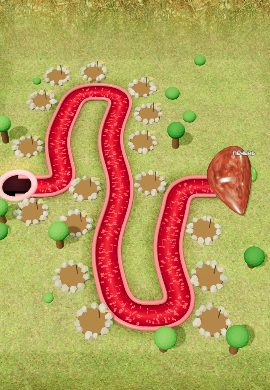
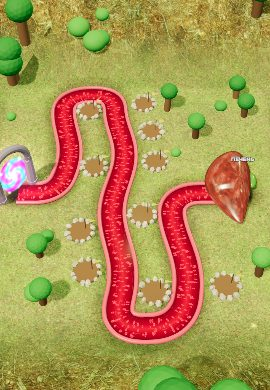
Стоячий светящийся портал, сосуд уходит под орган, площадки внутри петель и не заходят на сосуд

diff --git a/index.html b/index.html
@@ -343,7 +343,7 @@ body {
       </div>
       <button class="btn big" data-look="menu">Фон и звуки</button>
       <button class="btn" data-go="howto">Как играть</button>
-      <p class="ver">Версия 0.8 · прототип</p>
+      <p class="ver">Версия 0.9 · прототип</p>
     </div>
   </div>
 
@@ -1172,15 +1172,17 @@ function makeLayout(aspect) {
   const rows = aspect < .9 ? 13 : aspect < 1.4 ? 11 : 9, gap = portrait ? 2 : 3;
   const width = Math.round(rows * aspect * .92 - 2.6);
   const runs = Math.max(2, Math.floor((width - 2) / gap) + 1);
-  const mid = Math.floor(rows / 2), wp = [[-0.45, mid]];
+  const mid = Math.floor(rows / 2), wp = [[-0.45, mid]], R = [];
   let y = mid;
   for (let k = 0; k < runs; k++) {
     const c = 1 + k * gap, to = k === runs - 1 ? mid : (k % 2 === 0 ? 1 : rows - 2);
-    wp.push([c, y], [c, to]); y = to;
+    wp.push([c, y], [c, to]); R.push({ c, z0: y, z1: to }); y = to;
   }
   const last = 1 + (runs - 1) * gap;
-  wp.push([last + 1.6, mid]);
-  return { rows, cols: last + 2, wp, portrait };
+  wp.push([last + 2.3, mid]);   // конец сосуда спрятан внутри органа
+  // петли: между соседними участками, «залив» открыт в сторону начала участка
+  const turns = R.slice(0, -1).map((r, k) => ({ x: r.c + gap / 2, z: r.z1, dir: Math.sign(r.z0 - r.z1) || 1, a: r, b: R[k + 1] }));
+  return { rows, cols: last + 2, wp, portrait, runs: R, turns, gap, mid };
 }
 
 function pathAt(d, v = new T.Vector3()) {
@@ -1208,12 +1210,32 @@ const bloodTex = canvasTex(128, 512, (g, W, H) => {
 bloodTex.wrapS = bloodTex.wrapT = T.RepeatWrapping;
 const portal = new T.Group();
 {
-  const hole = new T.Mesh(new T.CircleGeometry(.62, 40), new T.MeshBasicMaterial({ color: '#050102' }));
-  hole.rotation.x = -Math.PI / 2; hole.position.y = .03; portal.add(hole);
-  const ring = new T.Mesh(new T.TorusGeometry(.62, .11, 12, 40), new T.MeshStandardMaterial({ color: '#ff8ea0', roughness: .3, emissive: '#7a1426', emissiveIntensity: .7 }));
-  ring.rotation.x = -Math.PI / 2; ring.position.y = .06; portal.add(ring);
-  const glow = new T.Sprite(new T.SpriteMaterial({ map: glowTex, color: '#ff3d55', blending: T.AdditiveBlending, depthWrite: false, opacity: .55 }));
-  glow.scale.set(2.2, 2.2, 1); glow.position.y = .2; portal.add(glow); portal.userData.glow = glow;
+  // Ворота из камня с аркой, внутри — светящаяся закрученная мембрана; микробы выходят из неё
+  const stone = new T.MeshStandardMaterial({ color: '#8a7a8a', roughness: .7, flatShading: true });
+  const trim = new T.MeshStandardMaterial({ color: '#c8a0ff', emissive: '#8a4aff', emissiveIntensity: .9, roughness: .3 });
+  const pill = (z) => { const m = new T.Mesh(new T.CylinderGeometry(.11, .14, 1.05, 8), stone); m.position.set(0, .52, z); m.castShadow = true; portal.add(m);
+    const cap = new T.Mesh(new T.CylinderGeometry(.16, .16, .08, 8), stone); cap.position.set(0, .06, z); portal.add(cap); };
+  pill(-.52); pill(.52);
+  const arch = new T.Mesh(new T.TorusGeometry(.52, .1, 10, 32, Math.PI), stone); arch.rotation.y = Math.PI / 2; arch.position.y = 1.05; arch.castShadow = true; portal.add(arch);
+  const band = new T.Mesh(new T.TorusGeometry(.43, .025, 8, 40, Math.PI), trim); band.rotation.y = Math.PI / 2; band.position.y = 1.05; portal.add(band);
+  for (const z of [-.43, .43]) { const b = new T.Mesh(new T.CylinderGeometry(.025, .025, .98, 6), trim); b.position.set(0, .56, z); portal.add(b); }
+  const mat = new T.ShaderMaterial({
+    uniforms: { t: { value: 0 }, c1: { value: new T.Color('#ff4ad8') }, c2: { value: new T.Color('#5ad8ff') } },
+    vertexShader: 'varying vec2 vU; void main(){ vU = uv; gl_Position = projectionMatrix * modelViewMatrix * vec4(position,1.); }',
+    fragmentShader: `uniform float t; uniform vec3 c1; uniform vec3 c2; varying vec2 vU;
+      void main(){ vec2 p = (vU - .5) * 2.; float r = length(p); float a = atan(p.y, p.x);
+        float sw = sin(a * 3. + r * 9. - t * 3.5) * .5 + .5; float sw2 = sin(a * 5. - r * 14. + t * 2.) * .5 + .5;
+        vec3 col = mix(c1, c2, sw) + vec3(1.) * pow(1. - r, 3.) * .9 + sw2 * .15;
+        float al = smoothstep(1., .8, r) * (.75 + .25 * sw) + smoothstep(.95, .85, r) * smoothstep(.75, .9, r) * .6;
+        gl_FragColor = vec4(col * 1.25, al); }`,
+    transparent: true, depthWrite: false, side: T.DoubleSide
+  });
+  const door = new T.Mesh(new T.CircleGeometry(.47, 48), mat); door.scale.y = 1.35; door.position.y = .66; door.rotation.y = Math.PI / 2; portal.add(door);
+  const glow = new T.Sprite(new T.SpriteMaterial({ map: glowTex, color: '#c86aff', blending: T.AdditiveBlending, depthWrite: false, opacity: .55 }));
+  glow.scale.set(2.4, 2.4, 1); glow.position.y = .7; portal.add(glow);
+  const motes = [];
+  for (let i = 0; i < 10; i++) { const m = new T.Sprite(new T.SpriteMaterial({ map: glowTex, color: i % 2 ? '#ff9af0' : '#9fefff', blending: T.AdditiveBlending, depthWrite: false })); m.scale.setScalar(.12); portal.add(m); motes.push(m); }
+  portal.userData = { glow, mat, motes };
   scene.add(portal);
 }
 const organ = new T.Group();
@@ -1294,7 +1316,7 @@ function setOrgan(lv) {
 setOrgan(LEVELS[0]);
 function CYL_HI() { return new T.CylinderGeometry(1, 1, 1, 16); }
 
-const padGeo = new T.CylinderGeometry(.45, .47, .06, 32);
+const padGeo = new T.CylinderGeometry(.4, .42, .06, 32);
 const stoneGeo = new T.DodecahedronGeometry(1, 0), stoneMat = new T.MeshStandardMaterial({ roughness: .85, flatShading: true });
 const poleGeo = new T.CylinderGeometry(.015, .015, .56, 6), poleMat = new T.MeshStandardMaterial({ color: '#6a4a2e', roughness: .8 });
 const flagGeo = (() => { const g = new T.BufferGeometry(); g.setAttribute('position', new T.Float32BufferAttribute([0, .1, 0, 0, -.1, 0, .24, 0, 0], 3)); g.computeVertexNormals(); return g; })();
@@ -1356,7 +1378,7 @@ function buildBoard(L) {
     for (let k = 0; k < n; k++) out.push(a.clone().lerp(b, k / n));
   }
   out.push(raw[raw.length - 1].clone());
-  const ph = Math.random() * 6;
+  const ph = Math.random() * 6; L.ph = ph;
   out.forEach((v, i) => { const edge = Math.min(1, i / 8, (out.length - 1 - i) / 8); v.x += Math.sin(v.z * 1.25 + ph) * .2 * edge; });
   const cum = [0];
   for (let i = 1; i < out.length; i++) cum.push(cum[i - 1] + out[i].distanceTo(out[i - 1]));
@@ -1392,35 +1414,49 @@ function buildBoard(L) {
     wall.castShadow = true; wall.receiveShadow = true; board.add(wall);
   }
 
-  portal.position.copy(PATH.pts[0]).setY(PATH_Y + .02);
+  portal.position.copy(PATH.pts[0]).setY(0); { const d = PATH.pts[3].clone().sub(PATH.pts[0]); portal.rotation.y = -Math.atan2(d.z, d.x) - .8; portal.scale.setScalar(1.25); }   // ворота развёрнуты к игроку, чтобы был виден светящийся проход
   const sc = L.portrait ? 1.15 : 1.5, end = PATH.pts[PATH.pts.length - 1];
-  organ.scale.setScalar(sc); organ.position.set(end.x + .62 * sc, 0, end.z);  // сосуд входит прямо в орган
+  organ.scale.setScalar(sc); organ.position.set(end.x - .25 * sc, 0, end.z);  // последний отрезок сосуда уходит под орган
   organ.updateMatrixWorld(true);
   const ob = new T.Box3().setFromObject(organ).expandByScalar(.2);
 
   // Площадки — «островки» в выгодных местах: там, где в радиусе выстрела больше всего сосуда (петли, промежутки между участками)
   TER.hash.clear();
   for (let d = 0; d <= PATH.len; d += .12) { const pp = pathAt(d); const kk = Math.floor(pp.x) + ',' + Math.floor(pp.z); if (!TER.hash.has(kk)) TER.hash.set(kk, []); TER.hash.get(kk).push(pp.x, pp.z); }
-  const samples = []; for (let d = 0; d <= PATH.len; d += .3) samples.push(pathAt(d).clone());
-  const cands = [];
-  for (let x = -OX - .5; x <= COLS - OX + .5; x += .25) for (let z = -OZ - .5; z <= ROWS - OZ - .5; z += .25) {
-    const dp = pathDist(x, z); if (dp < 1 || dp > 1.4) continue;
-    if (x + .5 > ob.min.x && z > ob.min.z && z < ob.max.z) continue;
-    if (Math.hypot(x - PATH.pts[0].x, z - PATH.pts[0].z) < 1.3) continue;
-    let cov = 0; for (const q of samples) if (Math.hypot(q.x - x, q.z - z) < 2.2) cov++;
-    cands.push({ x, z, score: cov - Math.abs(dp - 1.15) * 4 + hash2(x, z) * .5 });
+  const wob = (wz) => Math.sin(wz * 1.25 + L.ph) * .2, P0 = PATH.pts[0], rr = L.portrait ? .95 : 1.2;
+  const cands = [];   // { x, z, pr } — чем меньше pr, тем важнее место
+  const add = (gx, gz, pr) => { const c = cellPos(gx, gz); cands.push({ x: c.x + wob(c.z), z: c.z, pr }); };
+  L.turns.forEach(t => {
+    add(t.x, t.z + t.dir * (rr + .15), 0);                                                 // центр петли — бьёт по дуге с трёх сторон
+    const zEnd = t.dir > 0 ? Math.min(Math.max(t.a.z0, t.a.z1), Math.max(t.b.z0, t.b.z1)) : Math.max(Math.min(t.a.z0, t.a.z1), Math.min(t.b.z0, t.b.z1));
+    for (let z = t.z + t.dir * (rr + 1.55); (z - zEnd) * t.dir < -.4; z += t.dir * 1.45) add(t.x, z, 1);   // вглубь «залива»
+  });
+  L.runs.forEach((r, k) => {
+    const lo = Math.min(r.z0, r.z1) + .7, hi = Math.max(r.z0, r.z1) - .7;
+    for (const side of [-1, 1]) {
+      if (k === 0 && side < 0) continue;            // слева от первого участка — у входа, не нужно
+      for (let z = lo; z <= hi; z += 1.5) add(r.c + side * 1.12, z, 2);   // в узком «заливе» отсеется по расстоянию до сосуда
+    }
+  });
+  const chosen = [];
+  cands.sort((a, b) => a.pr - b.pr);
+  const K = Math.max(12, Math.min(20, Math.round(PATH.len * .62)));
+  for (const cd of cands) {
+    if (chosen.length >= K) break;
+    const dp = pathDist(cd.x, cd.z);
+    if (dp < .93 || dp > 1.6) continue;                                            // не заходит на сосуд и не слишком далеко
+    if (cd.x + .5 > ob.min.x && cd.z > ob.min.z - .3 && cd.z < ob.max.z + .3) continue;
+    if (Math.hypot(cd.x - P0.x, cd.z - P0.z) < 1.8) continue;
+    if (chosen.every(o => Math.hypot(o.x - cd.x, o.z - cd.z) >= 1.45)) chosen.push(cd);
   }
-  cands.sort((a, b) => b.score - a.score);
-  const K = Math.max(12, Math.min(20, Math.round(PATH.len * .62))), chosen = [];
-  for (const cd of cands) { if (chosen.length >= K) break; if (chosen.every(o => Math.hypot(o.x - cd.x, o.z - cd.z) >= 1.5)) chosen.push(cd); }
   const stones = new T.InstancedMesh(stoneGeo, stoneMat, chosen.length * 11), dm = new T.Object3D(), sc2 = new T.Color();
   chosen.forEach((cd, i) => {
     const cp = new T.Vector3(cd.x, 0, cd.z);
     const m = new T.Mesh(padGeo, padMat); m.position.set(cp.x, .03, cp.z); m.receiveShadow = true; board.add(m);
     for (let k = 0; k < 11; k++) {
-      const a = k / 11 * Math.PI * 2 + hash2(i, k) * .3, r = .47;
+      const a = k / 11 * Math.PI * 2 + hash2(i, k) * .3, r = .42;
       dm.position.set(cp.x + Math.cos(a) * r, .06, cp.z + Math.sin(a) * r); dm.rotation.set(hash2(k, i) * 3, a, hash2(i + 3, k) * 3);
-      const s = .085 + hash2(i * 7, k) * .05; dm.scale.set(s * 1.3, s, s); dm.updateMatrix(); stones.setMatrixAt(i * 11 + k, dm.matrix);
+      const s = .07 + hash2(i * 7, k) * .04; dm.scale.set(s * 1.3, s, s); dm.updateMatrix(); stones.setMatrixAt(i * 11 + k, dm.matrix);
       stones.setColorAt(i * 11 + k, sc2.set(TH.stone || '#b8aa9a').multiplyScalar(.8 + hash2(k, i * 5) * .35));
     }
     const flag = new T.Group();
@@ -1892,6 +1928,8 @@ function update(dt) {
   bloodTex.offset.y -= dt * .45;
   animateBackdrop(dt, now);
   portal.userData.glow.material.opacity = .45 + Math.sin(now * 3) * .15;
+  portal.userData.mat.uniforms.t.value = now;
+  portal.userData.motes.forEach((m, i) => { const a = now * 1.6 + i / 10 * Math.PI * 2; m.position.set(Math.sin(a * .7) * .12, .66 + Math.sin(a) * .62, Math.cos(a) * .52); });
   organ.scale.setScalar(1 + Math.sin(now * 2.2) * .015);
   organ.userData.mat.emissiveIntensity = Math.max(1, organ.userData.mat.emissiveIntensity - dt * 6);
 
